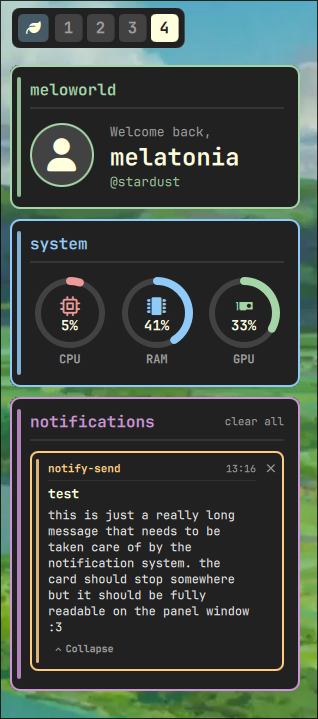
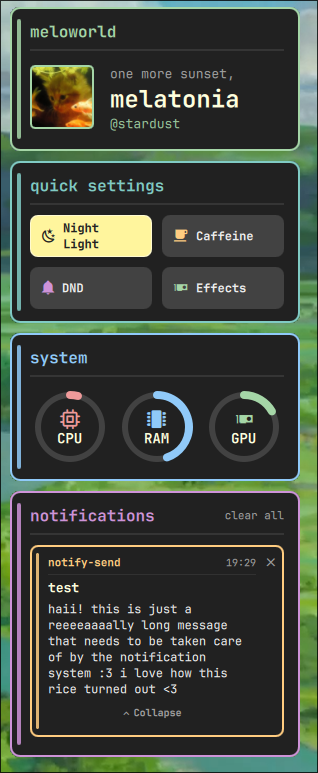
update readme

diff --git a/README.md b/README.md
@@ -12,7 +12,7 @@
 
 ---
 
-![desktop preview](assets/desktop.png?v=2)
+![desktop preview](assets/desktop.png?v=3)
 
 ---
 
@@ -42,6 +42,14 @@ every popup, widget, and notification is part of the same visual system. same ro
 ## 🌸 the bar
 
 workspace pills that slide in when you open something and slide out when you close it. scroll the mouse wheel to switch workspaces.
+
+---
+
+## ☀ the dashboard
+
+![dashboard](assets/dashboard.png)
+
+a left panel with quick toggles and notification history. the greetings change dynamically based on the time.
 
 ---
 
